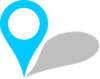
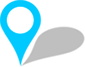
New pin addresses

diff --git a/js/dataloader.js b/js/dataloader.js
@@ -48,7 +48,7 @@ $.getJSON(dataURL, function(json){
           draggable: false,
           animation: google.maps.Animation.DROP,
           title: value["title"],
-          icon: "http://i.imgur.com/O8xgJkz.png"
+          icon: "https://raw.githubusercontent.com/daily-bruin/ucla-unseen/master/img/pin.png"
       });
 
       var markerIndex = mapMarkers.length-1;
@@ -91,9 +91,9 @@ $.getJSON(dataURL, function(json){
 function panMapTo(mapMarker)
 {
 	$.each(mapMarkers, function (index, value){
-		value.setIcon("http://i.imgur.com/O8xgJkz.png");
+		value.setIcon("https://raw.githubusercontent.com/daily-bruin/ucla-unseen/master/img/pin.png");
 	});
-	mapMarker.setIcon("http://i.imgur.com/6bI71oi.png");
+	mapMarker.setIcon("https://raw.githubusercontent.com/daily-bruin/ucla-unseen/master/img/highlighted-pin.png");
 	map.panTo(mapMarker.position);
 	if(!( /Android|webOS|iPhone|iPad|iPod|BlackBerry/i.test(navigator.userAgent) )) {
 		var offset = $(".card").width()/2;
